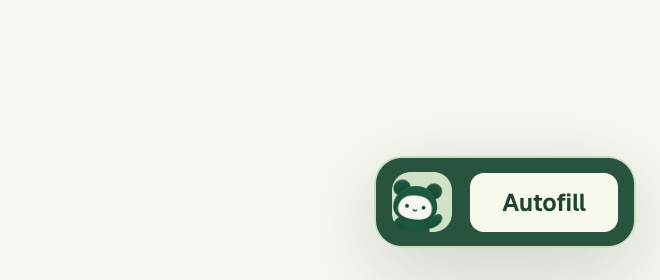
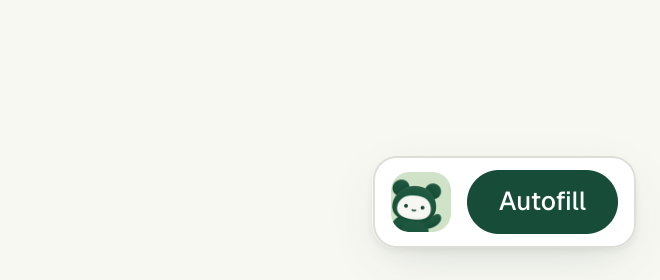
style: redesign the on-page card to match the website
The card on the page is now the website's own pair: a white card with a hairline border and a soft shadow, holding the dark green pill button. The 10-pixel text grows to 12, the gold need you link becomes an underlined link, and the keyboard ring is the website's green. Three things that were wrong are fixed along the way. A line the reader must act on, such as solve the CAPTCHA, was cut off after two short lines; it now widens the card to its full 272 pixels. The round logo button sat on a cream square; its frame is now clear. And its shadow was a rounded square around a circle; it now follows the circle. The Spanish and French reload steps are a few words shorter so they fit the card at the new size.

Changed region(s): [[0.5455, 0.5429, 0.9697, 0.8857]]

diff --git a/extension/panel.css b/extension/panel.css
@@ -4,25 +4,32 @@
 @font-face{font-family:Geist;font-weight:600;font-display:block;src:url(geist-latin-600-normal.woff2) format("woff2");unicode-range:U+0000-00FF,U+0131,U+0152-0153,U+02BB-02BC,U+02C6,U+02DA,U+02DC,U+0304,U+0308,U+0329,U+2000-206F,U+20AC,U+2122,U+2191,U+2193,U+2212,U+2215,U+FEFF,U+FFFD}@font-face{font-family:Geist;font-weight:600;font-display:block;src:url(geist-vietnamese-600-normal.woff2) format("woff2");unicode-range:U+0102-0103,U+0110-0111,U+0128-0129,U+0168-0169,U+01A0-01A1,U+01AF-01B0,U+0300-0301,U+0303-0304,U+0308-0309,U+0323,U+0329,U+1EA0-1EF9,U+20AB}
 @font-face{font-family:"Bricolage Grotesque Variable";font-weight:200 800;font-display:block;src:url(bricolage-grotesque-latin-wght-normal.woff2) format("woff2-variations");unicode-range:U+0000-00FF,U+0131,U+0152-0153,U+02BB-02BC,U+02C6,U+02DA,U+02DC,U+0304,U+0308,U+0329,U+2000-206F,U+20AC,U+2122,U+2191,U+2193,U+2212,U+2215,U+FEFF,U+FFFD}@font-face{font-family:"Bricolage Grotesque Variable";font-weight:200 800;font-display:block;src:url(bricolage-grotesque-vietnamese-wght-normal.woff2) format("woff2-variations");unicode-range:U+0102-0103,U+0110-0111,U+0128-0129,U+0168-0169,U+01A0-01A1,U+01AF-01B0,U+0300-0301,U+0303-0304,U+0308-0309,U+0323,U+0329,U+1EA0-1EF9,U+20AB}
 /* The website's colors (website/app/globals.css), and the app's red for a problem. */
-:root{--background:#f8faf7;--foreground:#163a2c;--primary:#164c38;--pressed:#0c3323;--muted:#e9eee8;--muted-foreground:#52665b;--border:#dcded8;--ring:#337d5b;--danger:#a23c38;--text:Geist,system-ui,-apple-system,"Segoe UI",sans-serif;--display:"Bricolage Grotesque Variable",var(--text);color:var(--foreground);background:var(--background);color-scheme:light;font-size:12px;font-synthesis:none}*{box-sizing:border-box}html,body{margin:0;width:100%;height:100%;overflow:hidden}body{display:flex;flex-direction:column;background:var(--background);font-family:var(--text)}button,select{font:inherit;color:inherit;cursor:pointer;-webkit-tap-highlight-color:transparent}button:disabled{cursor:default;opacity:.48}button:focus-visible{outline:3px solid #d5b668;outline-offset:2px}p,h1,h2{margin:0}[hidden]{display:none!important}
+:root{--background:#f8faf7;--foreground:#163a2c;--primary:#164c38;--pressed:#0c3323;--muted:#e9eee8;--muted-foreground:#52665b;--border:#dcded8;--ring:#337d5b;--danger:#a23c38;--text:Geist,system-ui,-apple-system,"Segoe UI",sans-serif;--display:"Bricolage Grotesque Variable",var(--text);color:var(--foreground);color-scheme:light;font-synthesis:none}
+*{box-sizing:border-box}html,body{margin:0;width:100%;height:100%;overflow:hidden}
+/* Chrome's own stylesheet for extension pages sets the body's font, so it is set again here. */
+body{display:flex;flex-direction:column;background:var(--background);font:400 13px/1.6 var(--text);-webkit-font-smoothing:antialiased}
+button,select{font:inherit;color:inherit;cursor:pointer;-webkit-tap-highlight-color:transparent}button:disabled{cursor:default;opacity:.48}:focus-visible{outline:3px solid var(--ring);outline-offset:2px}p,h1,h2,h3{margin:0}[hidden]{display:none!important}
 .brand{width:32px;height:32px;border-radius:30%;display:block;flex-shrink:0}
+.visually-hidden{position:absolute!important;width:1px;height:1px;overflow:hidden;clip-path:inset(50%);white-space:nowrap}
 /* The website's buttons: a filled pill, an outlined pill, and an underlined link. */
 .button{display:inline-flex;align-items:center;justify-content:center;min-height:44px;padding:10px 20px;border:1px solid transparent;border-radius:100px;font-size:14px;font-weight:500;line-height:1.3;text-align:center}.full{width:100%;margin-bottom:12px}
 .primary{background:var(--primary);color:#fff}.primary:hover:enabled{background:var(--pressed)}
 .secondary{background:#fff;border-color:var(--border)}.secondary:hover:enabled{background:var(--muted)}
 .text-button{display:flex;align-items:center;width:fit-content;min-height:32px;margin-bottom:4px;padding:0;border:0;background:none;font-weight:500;text-align:start;text-decoration:underline;text-underline-offset:4px}.text-button:hover:enabled{text-decoration-thickness:2px}
-/* On-page widget: an extension iframe the page cannot script. */
-body.launcher-surface{background:transparent}#launcher{width:100%;height:100%;display:flex;align-items:center;justify-content:center}#widget{width:max-content;max-width:272px;margin-inline-start:auto}#widget.outdated{width:100%}
-.widget{display:flex;flex-direction:column;justify-content:center;gap:4px;height:100%;padding:6px 8px;background:#28543f;color:#f5f8eb;border:1px solid #cddcc1;border-radius:14px}.widget .brand{width:30px;height:30px;flex:none}.widget-logo{display:flex;flex:none;padding:0;border:0;border-radius:9px;background:none;cursor:pointer}.widget-logo:focus-visible{outline:2px solid #f2d58d;outline-offset:2px}
-.widget-row{display:flex;align-items:center;gap:9px;min-width:0}.widget-row .widget-primary{padding:7px 16px}
-.widget-primary{background:#f5f8eb;color:#1f4432;border:0;border-radius:7px;padding:4px 13px;font-size:12px;font-weight:700;white-space:nowrap}.widget-primary:hover:enabled{background:#fff}
-.widget-link{background:none;border:0;padding:0;color:#d6e5c8;font-size:10px;text-decoration:underline;white-space:nowrap}
-#widget-text{font-size:10px;line-height:12px;color:#c7d8ba;min-width:0;overflow:hidden;display:-webkit-box;-webkit-box-orient:vertical;-webkit-line-clamp:2}
-/* An outdated worker: only the reload steps, with room for all of them. */
-.widget.outdated .widget-row{display:none}.widget.outdated{padding:4px 8px}.widget.outdated #widget-text{-webkit-line-clamp:3}
-.pill{width:46px;height:46px;flex:none;padding:0;border:1px solid #cddcc1;border-radius:50%;background:#28543f;display:flex;align-items:center;justify-content:center}.pill .brand{width:30px;height:30px}
+/* On-page widget: an extension iframe the page cannot script. Its frame is 46px tall, or 86px with a line under the row. */
+body.launcher-surface{background:none}#launcher{width:100%;height:100%;display:flex;align-items:center;justify-content:center}#widget{width:max-content;max-width:272px;margin-inline-start:auto}#widget.outdated{width:100%}
+.widget{display:flex;flex-direction:column;justify-content:center;gap:4px;height:100%;padding:6px 8px;background:#fff;border:1px solid var(--border);border-radius:12px}.widget .brand{width:30px;height:30px}.widget-logo{display:flex;flex:none;padding:0;border:0;border-radius:30%;background:none}
+.widget-row{display:flex;align-items:center;gap:8px;min-width:0}
+.widget-primary{flex:none;height:32px;padding:0 16px;border:0;border-radius:100px;background:var(--primary);color:#fff;font-weight:500;white-space:nowrap}.widget-primary:hover:enabled{background:var(--pressed)}
+.widget-link{padding:0;border:0;background:none;font-size:12px;font-weight:500;line-height:16px;text-decoration:underline;text-underline-offset:3px;white-space:nowrap}#need-you{font-weight:600}#translate-offer{align-self:flex-start}
+#widget-text{font-size:12px;line-height:16px;color:var(--muted-foreground);min-width:0;overflow:hidden;display:-webkit-box;-webkit-box-orient:vertical;-webkit-line-clamp:2}
+/* A line the reader must act on widens the widget to its 272px, so two lines hold it. */
+#widget-text:not(.visually-hidden){width:max-content;max-width:254px}
+/* An outdated worker: only the reload steps, with room for all of them in the frame the widget already has. */
+.widget.outdated .widget-row{display:none}.widget.outdated{padding:0 8px}.widget.outdated #widget-text{font-size:11px;line-height:14px;color:var(--foreground);-webkit-line-clamp:3}
+.pill{width:46px;height:46px;flex:none;padding:0;border:1px solid var(--border);border-radius:50%;background:#fff;display:flex;align-items:center;justify-content:center}.pill .brand{width:30px;height:30px}
 /* Chrome's native side panel. */
-#sidepanel{height:100%;overflow:auto;scrollbar-width:thin;scrollbar-color:var(--border) transparent;font-size:13px;line-height:1.6;-webkit-font-smoothing:antialiased}#sidepanel :focus-visible{outline:3px solid var(--ring);outline-offset:2px}
+#sidepanel{height:100%;overflow:auto;scrollbar-width:thin;scrollbar-color:var(--border) transparent}
 /* The header stays in view, unless the panel is short, as it is zoomed in: then it scrolls away with the rest. */
 .panel-header{position:sticky;top:0;z-index:1;display:flex;flex-wrap:wrap;align-items:center;gap:8px 10px;padding:12px 16px;background:var(--background);border-bottom:1px solid var(--border)}@media(max-height:480px){.panel-header{position:static}}
 /* The wordmark as the website sets it, in two weights. It reads left to right in every language. */
@@ -43,7 +50,6 @@ main{padding:16px 16px 0}
 footer{border-top:1px solid var(--border);margin-top:12px;padding:12px 0 16px}footer p{font-size:12px;color:var(--muted-foreground)}
 @media(prefers-reduced-motion:reduce){*{scroll-behavior:auto!important}}
 /* The page's questions in the applicant's language. */
-#need-you{color:#f2d58d;font-weight:600}#translate-offer{color:#f2d58d;align-self:flex-start}.visually-hidden{position:absolute!important;width:1px;height:1px;overflow:hidden;clip-path:inset(50%);white-space:nowrap}
 .questions-pending{margin:0 0 8px}
 .checklist-item.info{cursor:default}
 /* What this page says: key points Chrome writes on this computer. */

diff --git a/extension/strings.js b/extension/strings.js
@@ -43,6 +43,7 @@
     'widget.offerTitle': 'Show this page’s questions in English in SecondHand’s side panel',
     'widget.languageCheckFailed': 'SecondHand couldn’t check this page’s language.',
 
+    // The widget shows these steps in the 46px frame it already has: in every language they must fit three lines of its 272px.
     'panel.outdated': 'SecondHand was updated. Open chrome://extensions and click the reload arrow on SecondHand, then reload this page.',
     'panel.updated': 'SecondHand was updated to match the app on this computer.',
     'panel.reloadPage': 'SecondHand was updated. Reload this page to use it.',
@@ -362,7 +363,7 @@
     'widget.offerTitle': 'Mostrar las preguntas de esta página en español en el panel lateral de SecondHand',
     'widget.languageCheckFailed': 'SecondHand no pudo comprobar el idioma de esta página.',
 
-    'panel.outdated': 'SecondHand se actualizó. Abra chrome://extensions, haga clic en la flecha de recargar de SecondHand y luego recargue esta página.',
+    'panel.outdated': 'SecondHand se actualizó. Abra chrome://extensions, haga clic en la flecha de recargar de SecondHand y recargue esta página.',
     'panel.updated': 'SecondHand se actualizó para coincidir con la aplicación de esta computadora.',
     'panel.reloadPage': 'SecondHand se actualizó. Recargue esta página para usarlo.',
     'panel.updateFailed': 'SecondHand no pudo actualizar los archivos de su extensión. En la aplicación SecondHand, abra “Chrome extension” y haga clic en “Refresh extension files”. Luego abra chrome://extensions y haga clic en la flecha de recargar de SecondHand.',
@@ -1312,7 +1313,7 @@
     'widget.offerTitle': 'Afficher les questions de cette page en français dans le panneau latéral de SecondHand',
     'widget.languageCheckFailed': 'SecondHand n’a pas pu vérifier la langue de cette page.',
 
-    'panel.outdated': 'SecondHand a été mis à jour. Ouvrez chrome://extensions, cliquez sur la flèche de rechargement de SecondHand, puis rechargez cette page.',
+    'panel.outdated': 'SecondHand a été mis à jour. Ouvrez chrome://extensions, cliquez sur sa flèche de rechargement, puis rechargez cette page.',
     'panel.updated': 'SecondHand a été mis à jour pour correspondre à l’application de cet ordinateur.',
     'panel.reloadPage': 'SecondHand a été mis à jour. Rechargez cette page pour l’utiliser.',
     'panel.updateFailed': 'SecondHand n’a pas pu mettre à jour les fichiers de son extension. Dans l’application SecondHand, ouvrez « Chrome extension » et cliquez sur « Refresh extension files ». Ouvrez ensuite chrome://extensions et cliquez sur la flèche de rechargement de SecondHand.',

diff --git a/extension/content.js b/extension/content.js
@@ -39,6 +39,7 @@
       full = page.kind === 'fillable' || page.kind === 'info' || Boolean(page.todo) || generalUrl === location.href;
     } catch { full = false; }
     panelHost.setAttribute('data-secondhand-size', full ? 'full' : 'pill');
+    panelHost.style.setProperty('border-radius', full ? '12px' : '50%', 'important');
     panelHost.style.setProperty('width', full ? frameWidth(cardWidth) : '46px', 'important');
     panelHost.style.setProperty('height', full ? (messageRow ? '86px' : '46px') : '46px', 'important');
   }
@@ -57,7 +58,7 @@
       for (const [property, value] of Object.entries({
         all: 'initial', position: 'fixed', right: '12px', bottom: '16px', display: 'block',
         'z-index': '2147483647', margin: '0', padding: '0', border: '0',
-        'border-radius': '14px', 'box-shadow': '0 12px 42px #17342235',
+        'border-radius': '12px', 'box-shadow': '0 2px 3px #202c2010, 0 8px 24px -8px #202c2030',
         'color-scheme': 'light', isolation: 'isolate'
       })) panelHost.style.setProperty(property, value, 'important');
       const shadow = panelHost.attachShadow({ mode: 'closed' });
@@ -67,7 +68,7 @@
       panelFrame.setAttribute('sandbox', 'allow-scripts allow-same-origin');
       panelFrame.setAttribute('allow', 'language-detector'); // lets the widget check the page's language on this computer
       panelFrame.referrerPolicy = 'no-referrer';
-      for (const [property, value] of Object.entries({ width: '100%', height: '100%', display: 'block', border: '0', margin: '0', padding: '0', 'border-radius': '14px', background: 'transparent' })) panelFrame.style.setProperty(property, value, 'important');
+      for (const [property, value] of Object.entries({ width: '100%', height: '100%', display: 'block', border: '0', margin: '0', padding: '0', 'border-radius': 'inherit', background: 'transparent' })) panelFrame.style.setProperty(property, value, 'important');
       shadow.append(panelFrame);
     }
     sizePanel();

diff --git a/extension/generic-content.js b/extension/generic-content.js
@@ -47,7 +47,7 @@
         all: 'initial', position: 'fixed', right: '12px', bottom: '16px', display: 'block',
         width: frameWidth(0), height: '46px',
         'z-index': '2147483647', margin: '0', padding: '0', border: '0',
-        'border-radius': '14px', 'box-shadow': '0 12px 42px #17342235',
+        'border-radius': '12px', 'box-shadow': '0 2px 3px #202c2010, 0 8px 24px -8px #202c2030',
         'color-scheme': 'light', isolation: 'isolate'
       })) panelHost.style.setProperty(property, value, 'important');
       const shadow = panelHost.attachShadow({ mode: 'closed' });
@@ -57,7 +57,7 @@
       frame.setAttribute('sandbox', 'allow-scripts allow-same-origin');
       frame.setAttribute('allow', 'language-model; language-detector'); // lets the widget use Chrome's on-device AI and language detector
       frame.referrerPolicy = 'no-referrer';
-      for (const [property, value] of Object.entries({ width: '100%', height: '100%', display: 'block', border: '0', margin: '0', padding: '0', 'border-radius': '14px', background: 'transparent' })) frame.style.setProperty(property, value, 'important');
+      for (const [property, value] of Object.entries({ width: '100%', height: '100%', display: 'block', border: '0', margin: '0', padding: '0', 'border-radius': '12px', background: 'transparent' })) frame.style.setProperty(property, value, 'important');
       shadow.append(frame);
     }
     if (!panelHost.isConnected) document.body.append(panelHost);
